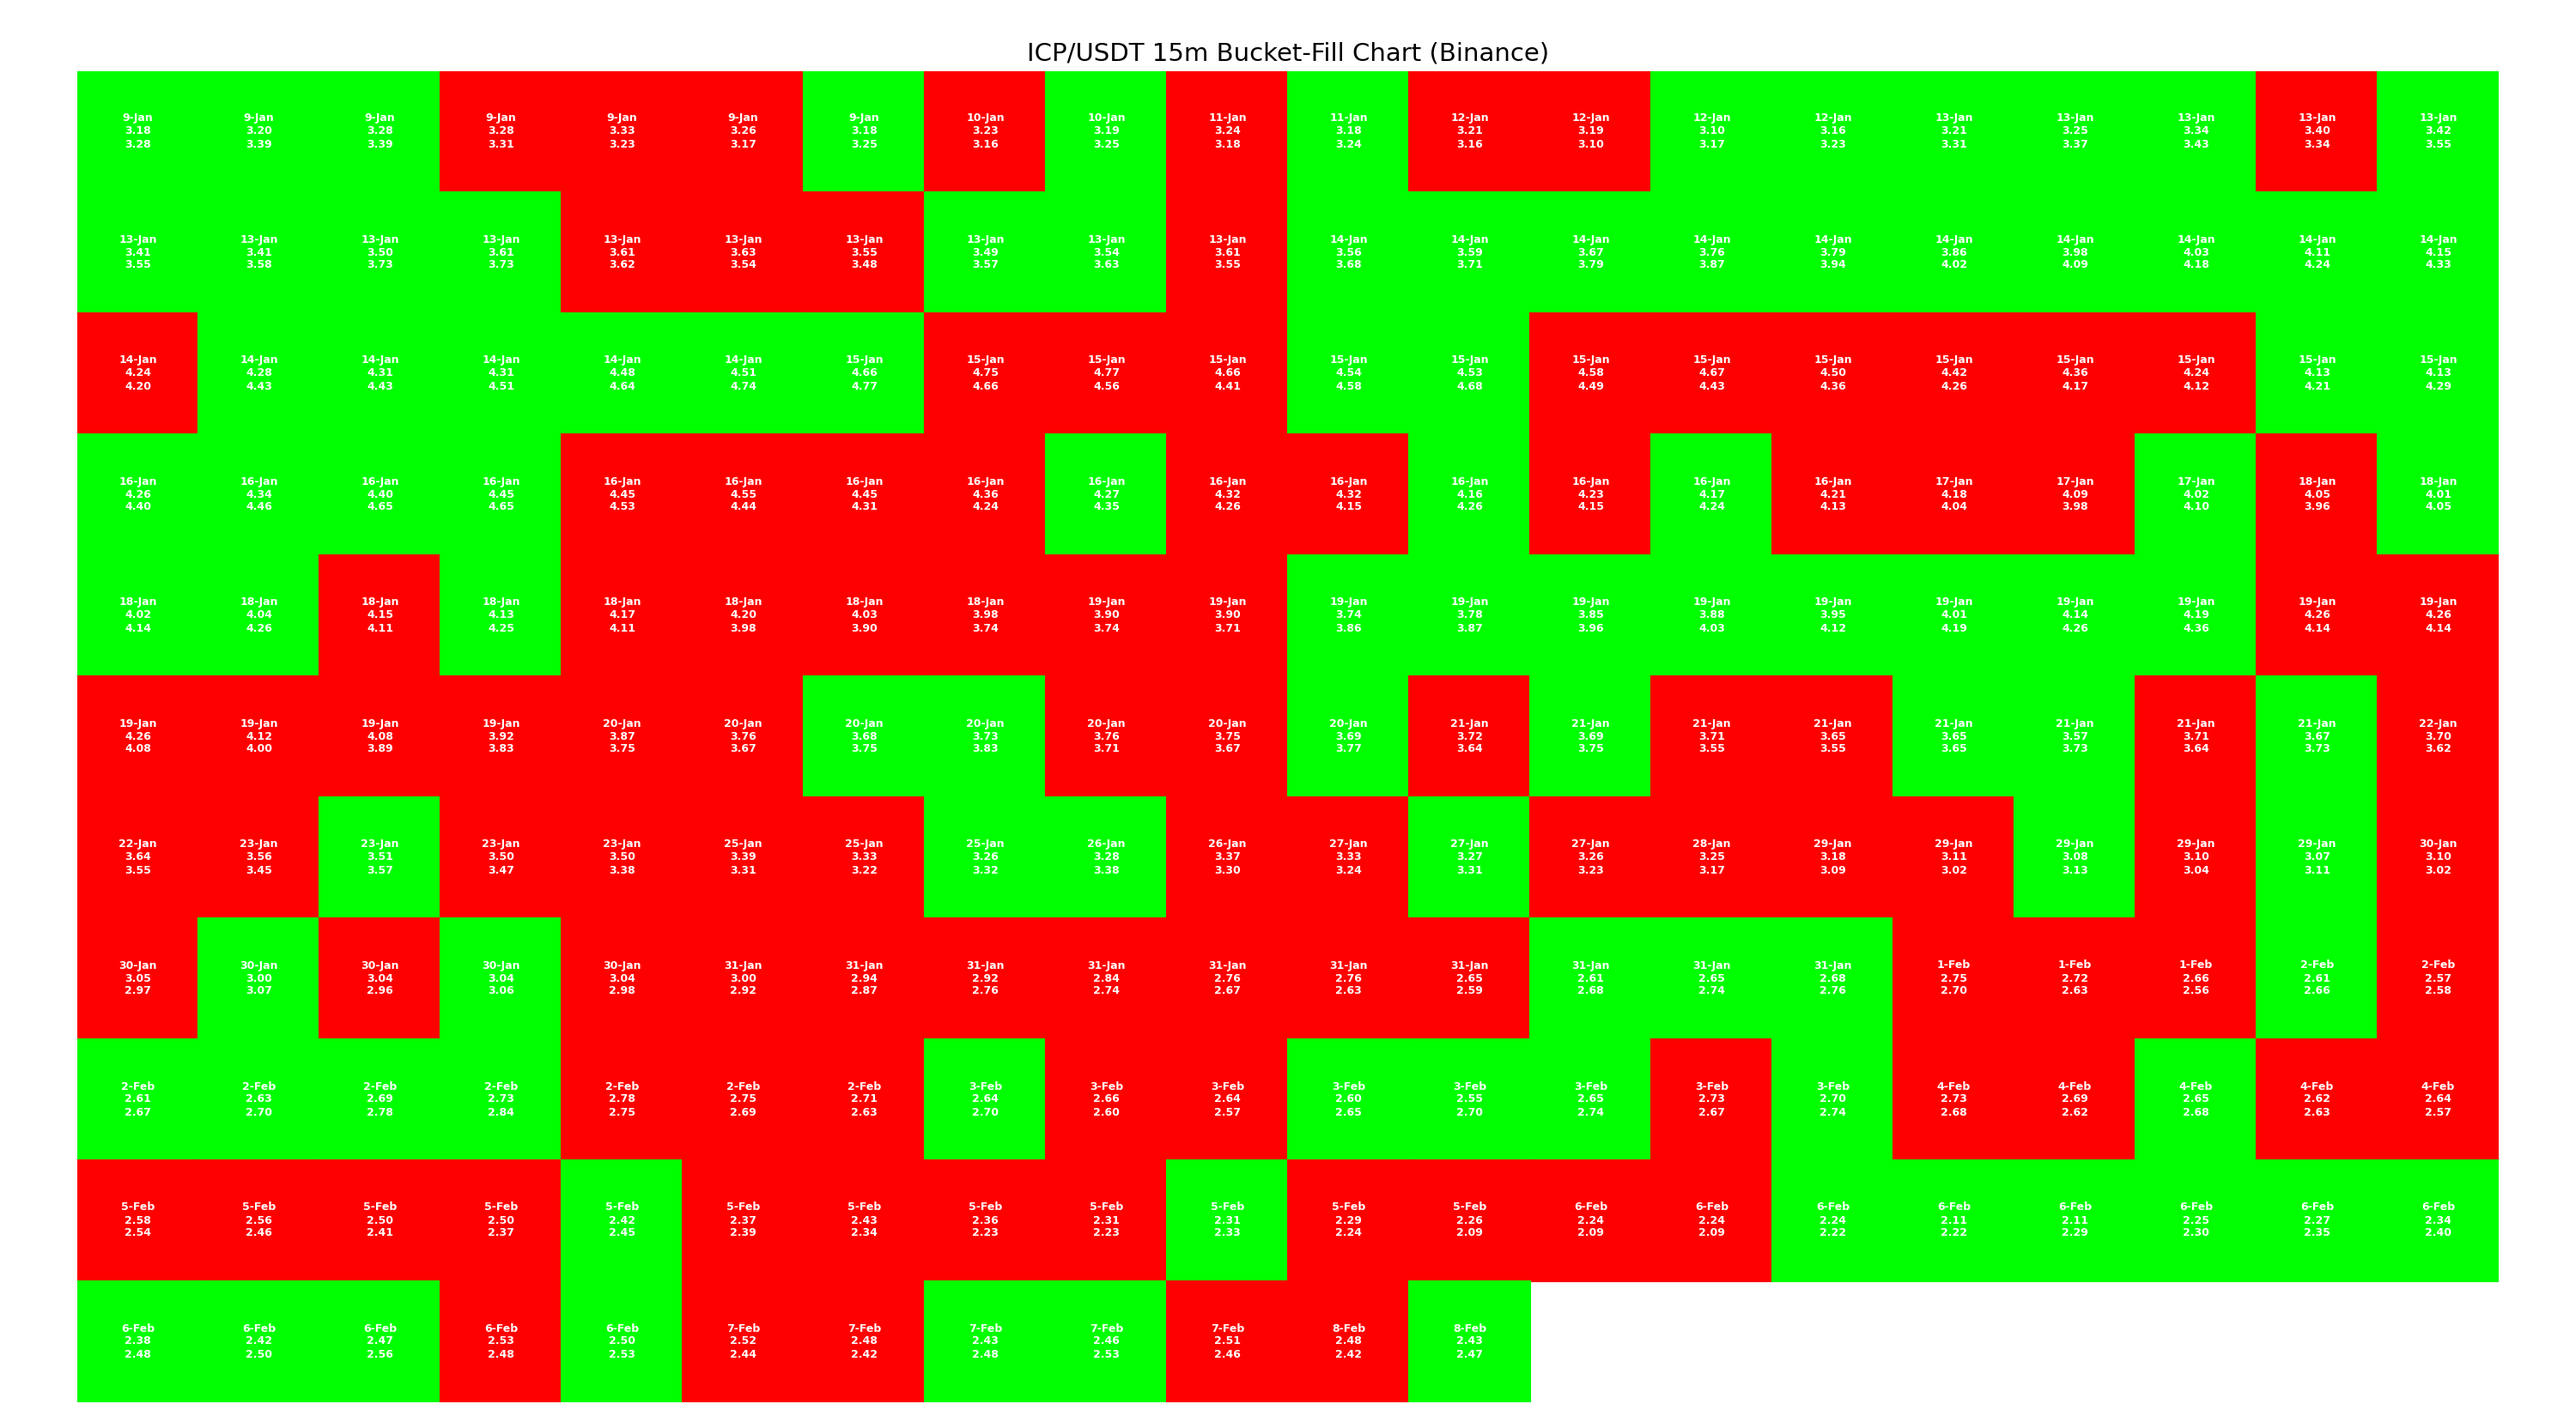
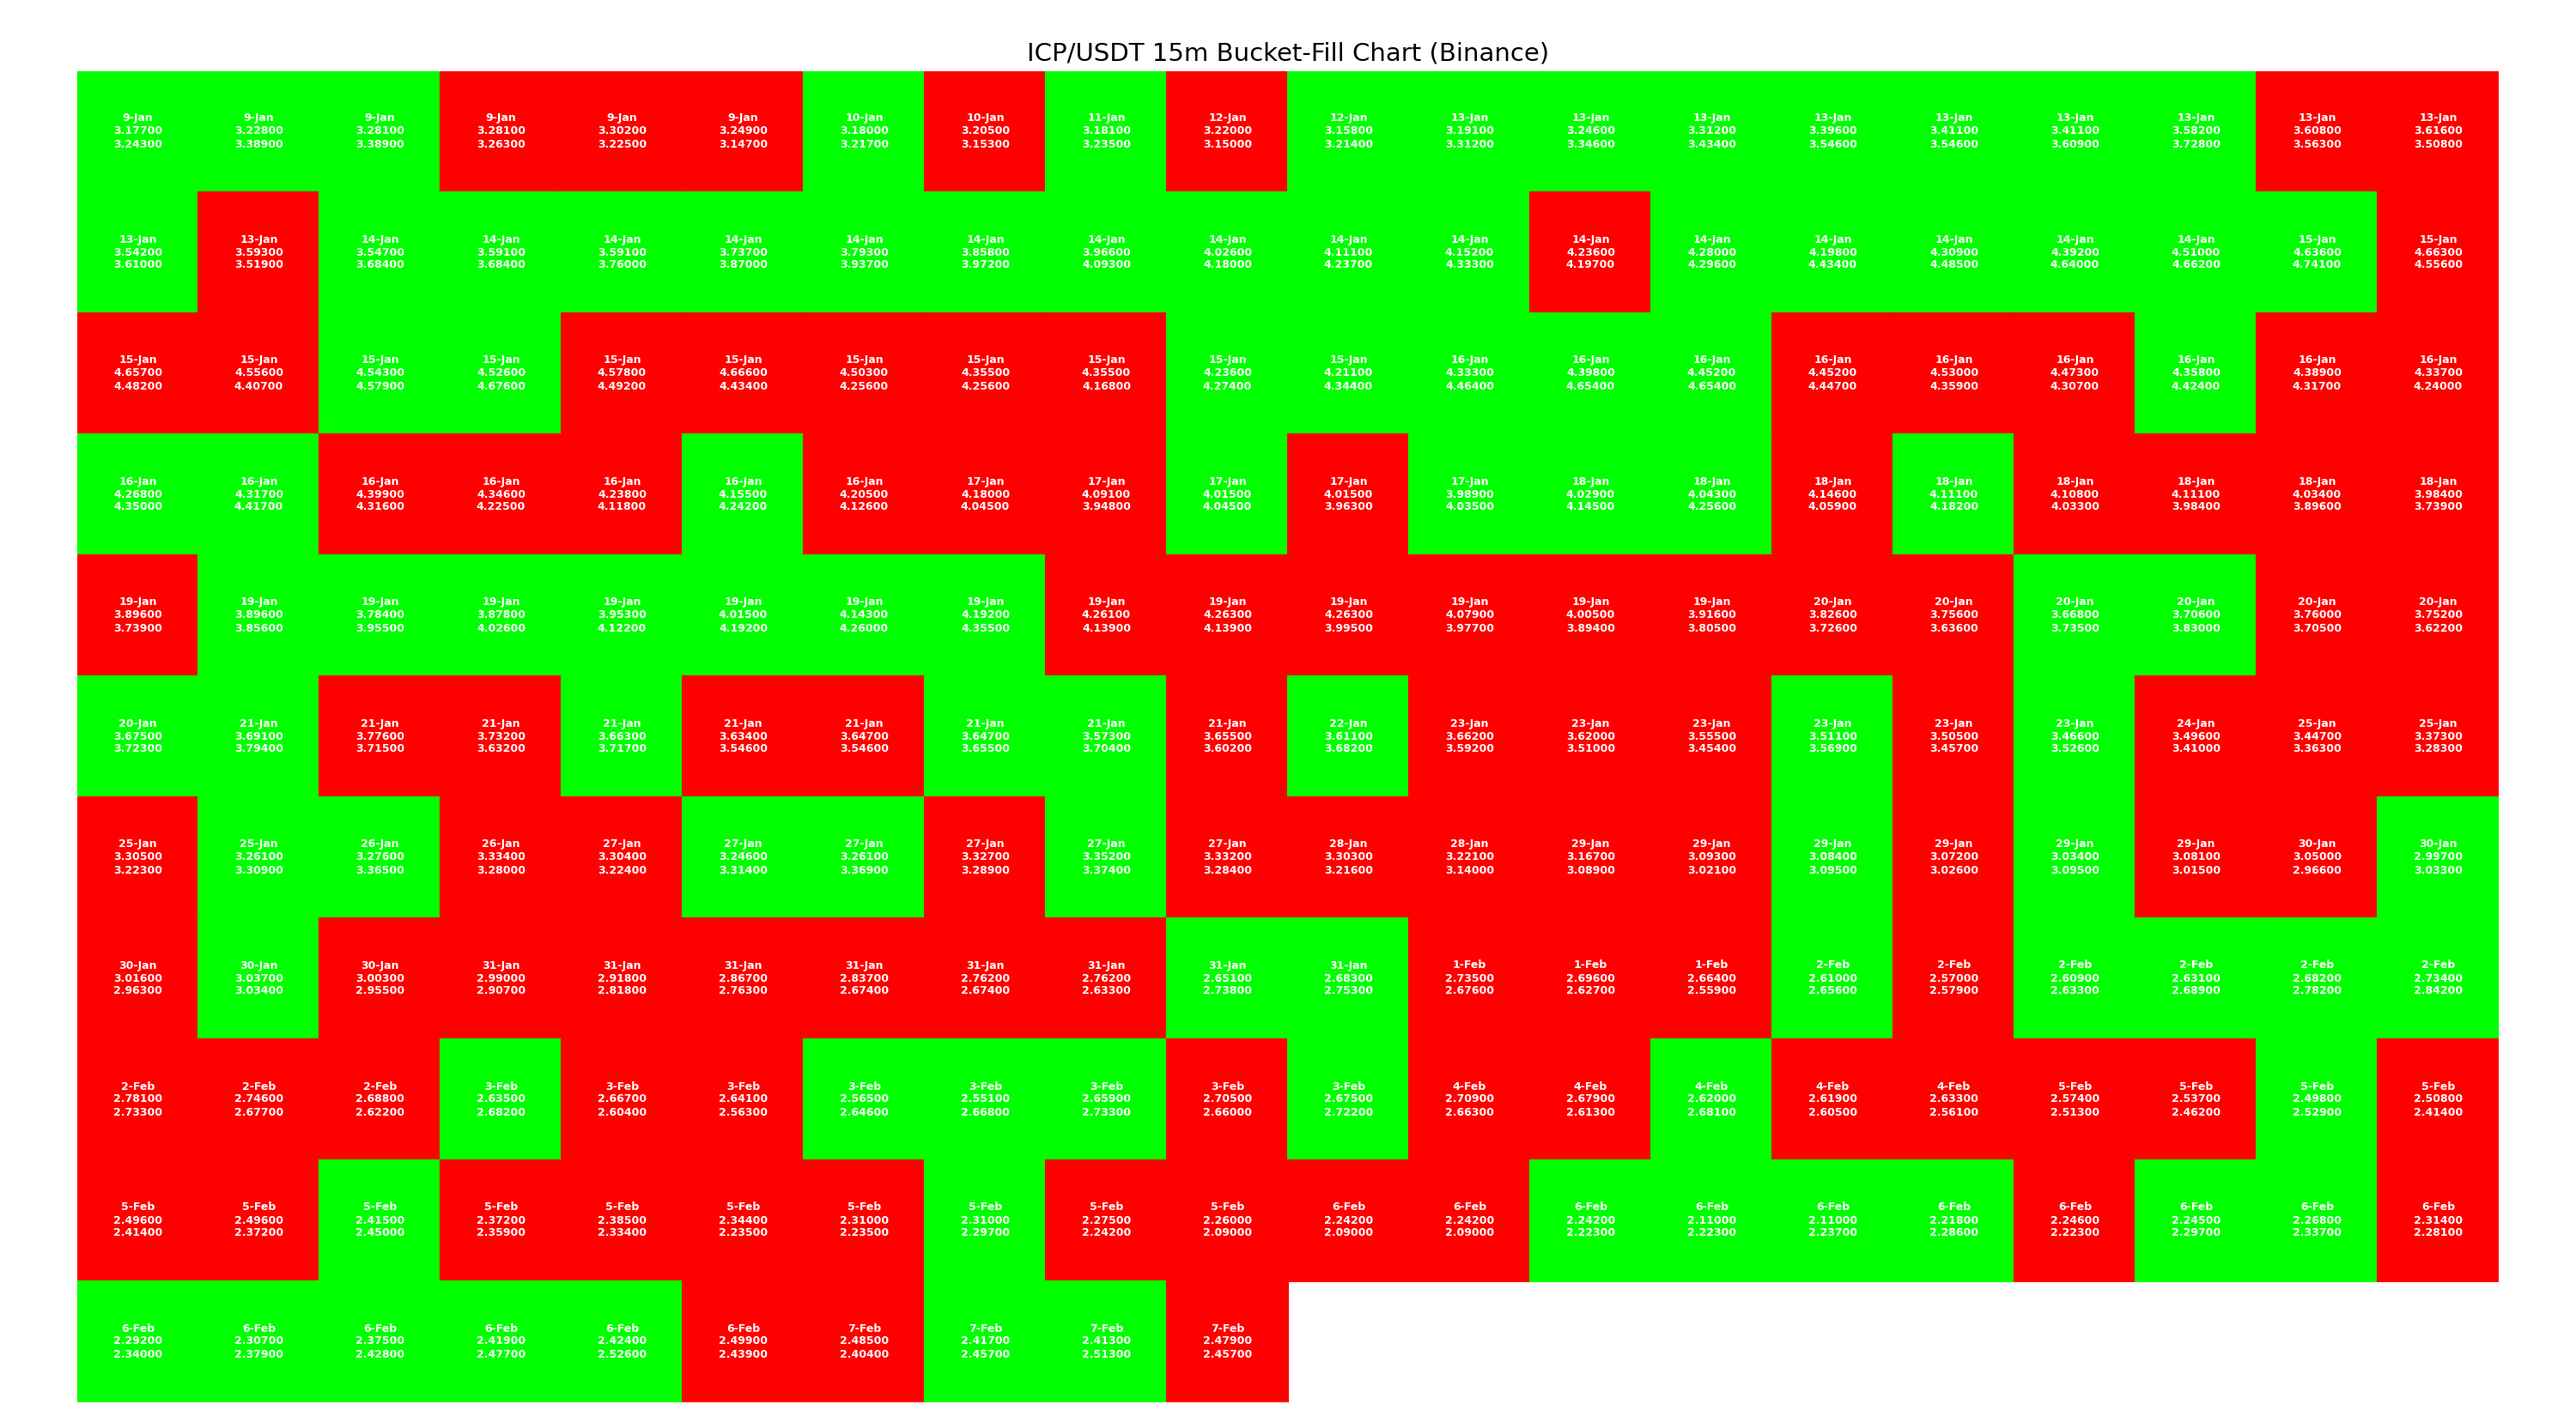
update

diff --git a/shard2/runner/botOutput.js b/shard2/runner/botOutput.js
@@ -1,0 +1,28 @@
+const express = require('express')
+// serve images in outputs folder
+const path = require('path')
+const fs = require('fs')
+const app = express()
+const port = 3001
+
+const outputsDir = path.join(__dirname, 'outputs')
+app.use('/outputs', express.static(outputsDir))
+
+function isValidSymbol(s) {
+  return /^[A-Za-z0-9_-]+$/.test(s)
+}
+
+// Serve images by symbol, e.g. GET /BAT -> outputs/BAT.png
+app.get('/:symbol', (req, res) => {
+  const symbol = req.params.symbol
+  if (!isValidSymbol(symbol)) return res.status(400).send('Invalid symbol')
+  const filePath = path.join(outputsDir, `${symbol}.png`)
+  fs.access(filePath, fs.constants.R_OK, (err) => {
+    if (err) return res.status(404).send('Not found')
+    res.sendFile(filePath)
+  })
+})
+
+app.listen(port, () => {
+  console.log(`Bot output server listening at http://localhost:${port}`)
+})

diff --git a/shard2/runner/bot.py b/shard2/runner/bot.py
@@ -29,7 +29,7 @@ COLS = 20
 LIMIT = 300
 
 # Coins to process
-COINS = ["ZEC", "ICP", "ENA"]
+COINS = ["ZEC", "ICP", "ENA","BAT","VET","HOOK"]
 
 # Safety delay (seconds) to wait after candle close
 SAFETY_DELAY = 20
@@ -232,7 +232,7 @@ def process_coin(coin: str, out_dir: Path):
             is_green_cup = cup_fill > 0  # Green = bullish (positive fill)
             
             if is_green_cup:
-                print(f"[{datetime.now()}] {coin}: Latest complete cup is GREEN (bullish), fill={cup_fill:.2f}")
+                print(f"[{datetime.now()}] {coin}: Latest complete cup is GREEN (bullish), fill={cup_fill:.5f}")
                 # Check if long position already exists
                 if check_long_position_exists(coin):
                     print(f"[{datetime.now()}] {coin}: Long position already exists in {TABLE_NAME}, skipping.")
@@ -243,7 +243,7 @@ def process_coin(coin: str, out_dir: Path):
                 if check_short_position_exists(coin):
                     print(f"[{datetime.now()}] {coin}: Short position exists but latest cup is green, no action.")
             else:
-                print(f"[{datetime.now()}] {coin}: Latest complete cup is RED (bearish), fill={cup_fill:.2f}")
+                print(f"[{datetime.now()}] {coin}: Latest complete cup is RED (bearish), fill={cup_fill:.5f}")
                 # Check if short position already exists
                 if check_short_position_exists(coin):
                     print(f"[{datetime.now()}] {coin}: Short position already exists in {TABLE_NAME}, skipping.")
@@ -284,7 +284,7 @@ def process_coin(coin: str, out_dir: Path):
                     ax.text(
                         c + 0.5,
                         r + 0.5,
-                        f"{date.strftime('%-d-%b')}\n{o_price:.2f}\n{c_price:.2f}",
+                        f"{date.strftime('%-d-%b')}\n{o_price:.5f}\n{c_price:.5f}",
                         ha="center",
                         va="center",
                         fontsize=6,
